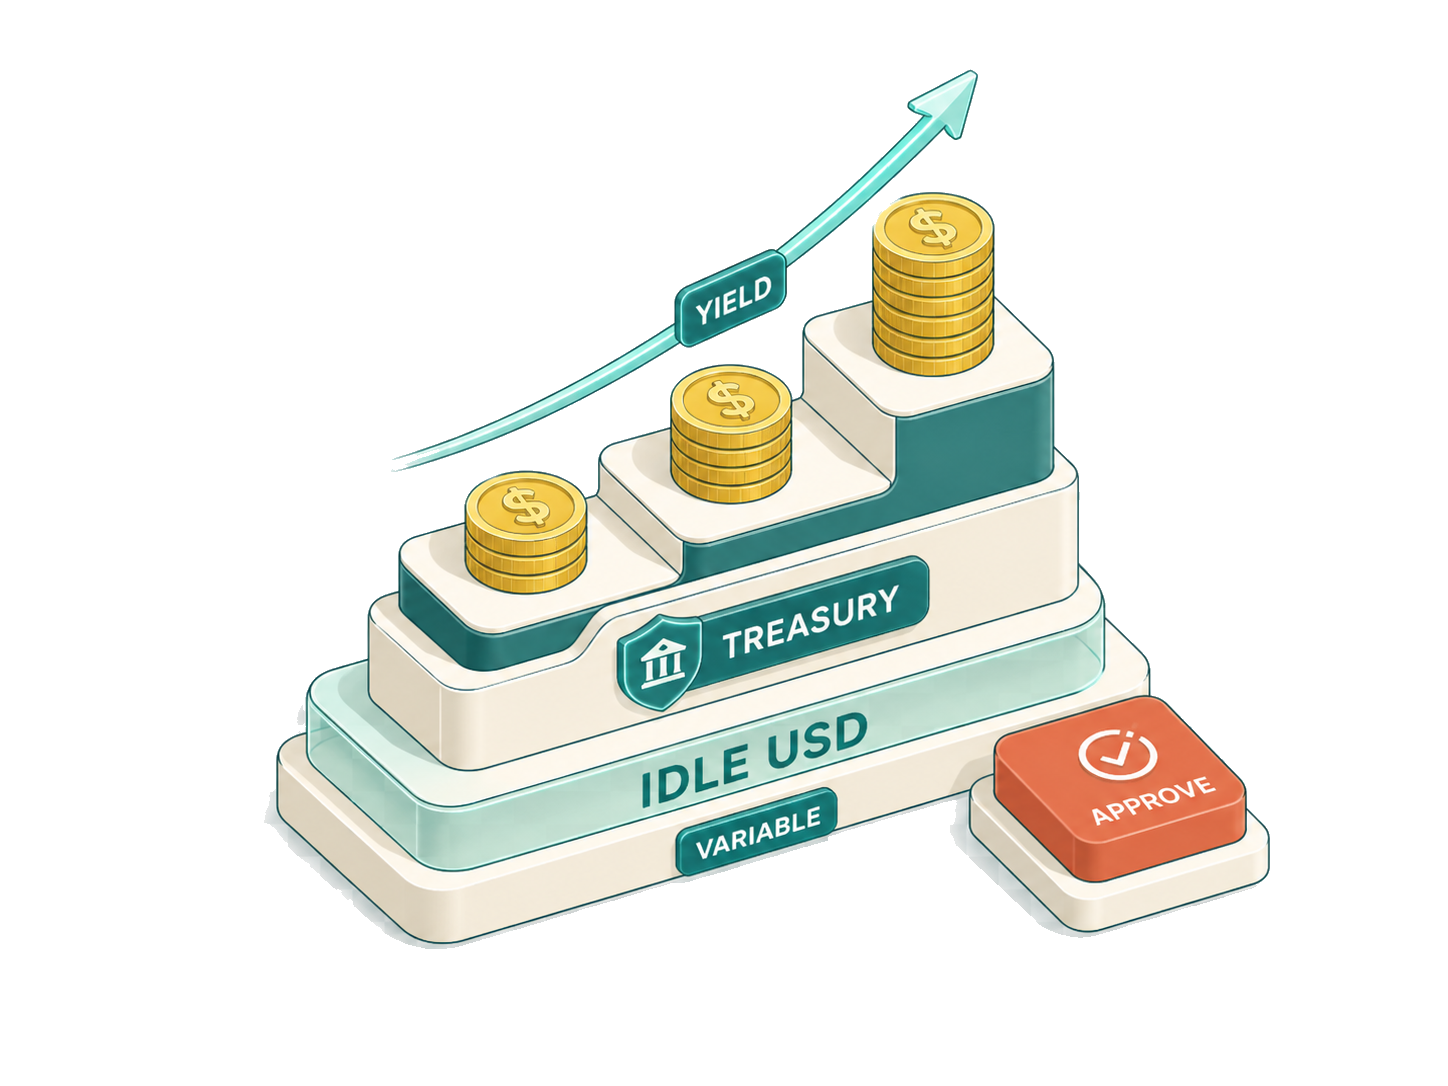
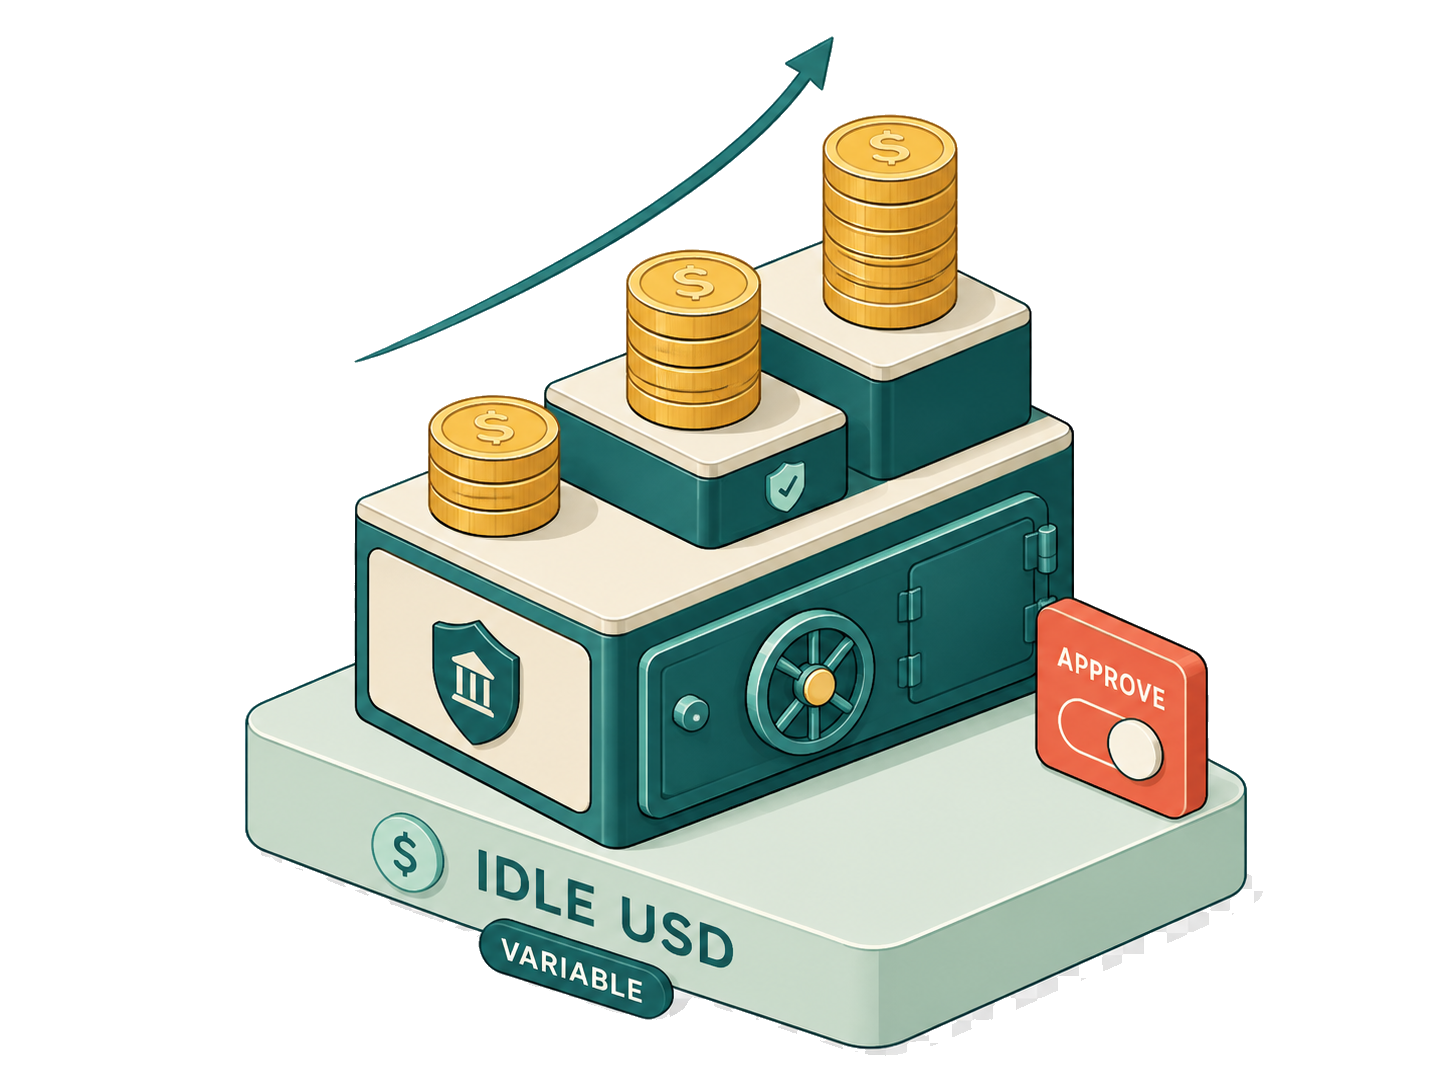
Update loop/supply art (transparent) + 1.1x hover-pop on card illustrations
- Replace loop-settle / loop-save / supply-settlement with the updated
  renders; flood-filled their backgrounds (checkerboard + solid white) to
  real transparency, preserving interior whites (cream pedestals, mint slab,
  WALRUS/SUI tiles, on-chain legend).
- Card illustrations now pop out to 1.1x on image hover across the three
  families (loops, supply, platform layers): lift + stronger shadow, and the
  hovered card floats above neighbours via z-index. Removed the WC card
  overflow clip so the pop isn't cut off; animate filter alongside transform.

diff --git a/styles/cinematic.css b/styles/cinematic.css
@@ -1724,9 +1724,13 @@
   height: 100%;
   object-fit: contain;
   filter: drop-shadow(0 18px 16px color-mix(in srgb, var(--ink) 14%, transparent));
-  transition: transform var(--dur-slow) var(--ease-standard);
+  transition: transform var(--dur-slow) var(--ease-standard), filter var(--dur-slow) var(--ease-standard);
 }
-.iso-loops-card:hover .iso-loops-art img { transform: translateY(-6px) scale(1.02); }
+/* Hover the illustration itself → it pops out 1.1x above the card. */
+.iso-loops-art:hover img {
+  transform: translateY(-8px) scale(1.1);
+  filter: drop-shadow(0 28px 24px color-mix(in srgb, var(--ink) 24%, transparent));
+}
 
 .iso-loops-copy {
   position: relative;
@@ -1844,9 +1848,13 @@
   height: 100%;
   object-fit: contain;
   filter: drop-shadow(0 14px 12px color-mix(in srgb, var(--ink) 12%, transparent));
-  transition: transform var(--dur-slow) var(--ease-standard);
+  transition: transform var(--dur-slow) var(--ease-standard), filter var(--dur-slow) var(--ease-standard);
 }
-.iso-supply-card:hover .iso-supply-art img { transform: translateY(-5px) scale(1.02); }
+/* Hover the illustration itself → it pops out 1.1x above the card. */
+.iso-supply-art:hover img {
+  transform: translateY(-8px) scale(1.1);
+  filter: drop-shadow(0 26px 22px color-mix(in srgb, var(--ink) 22%, transparent));
+}
 
 .iso-supply-copy {
   border-top: 1px solid var(--line);

diff --git a/app/globals.css b/app/globals.css
@@ -1807,7 +1807,6 @@ body {
 .wc-flow { margin: 30px 0 0; padding: 0; list-style: none; }
 .wc-flow-card {
   position: relative;
-  overflow: hidden;
   background: var(--surface, #fff);
 }
 .wc-flow-card::before {
@@ -1815,6 +1814,7 @@ body {
   position: absolute;
   inset: 0 0 auto 0;
   height: 3px;
+  border-radius: 12px 12px 0 0;
   background: linear-gradient(90deg, var(--iso-coral), transparent 72%);
 }
 .wc-flow-ghost {
@@ -2285,11 +2285,25 @@ body {
   height: 100%;
   object-fit: contain;
   filter: drop-shadow(0 22px 20px rgba(8, 54, 64, .14));
-  transition: transform .35s ease;
+  transition: transform .35s ease, filter .35s ease;
 }
 
-.iso-layer-card:hover .iso-layer-art img {
-  transform: translateY(-7px) scale(1.025);
+/* Hover the illustration itself → it pops out 1.1x above the card. */
+.iso-layer-art:hover img {
+  transform: translateY(-8px) scale(1.1);
+  filter: drop-shadow(0 30px 26px rgba(8, 54, 64, .24));
+}
+
+/* Give the popped illustration room to float above adjacent cards. */
+.iso-loops-card,
+.iso-supply-card,
+.iso-layer-card { position: relative; }
+.iso-loops-card:hover,
+.iso-supply-card:hover,
+.iso-layer-card:hover { z-index: 3; }
+
+@media (prefers-reduced-motion: reduce) {
+  .iso-layer-art img { transition: none; }
 }
 
 .iso-layer-copy {
